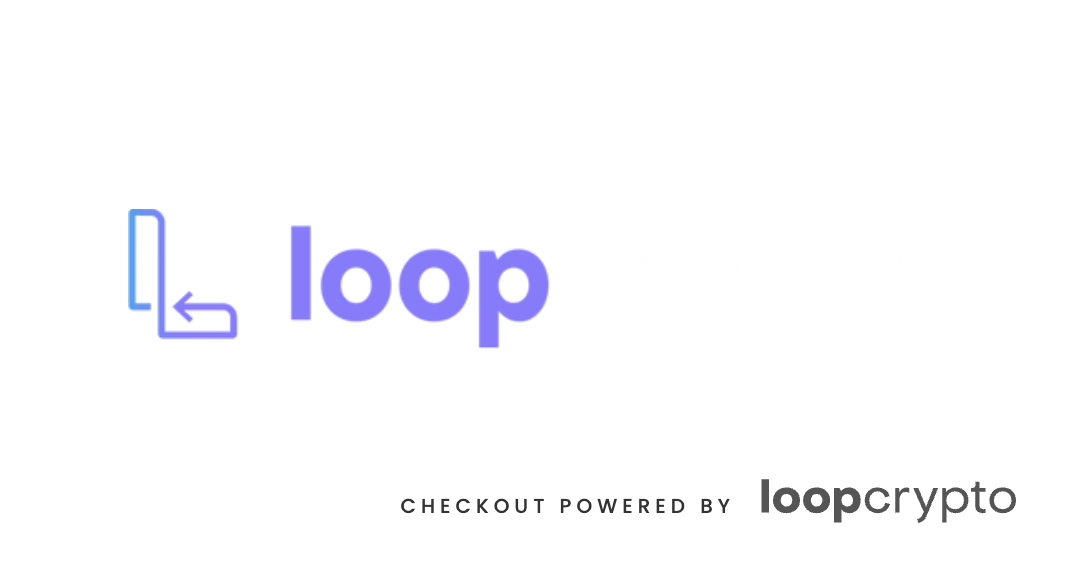
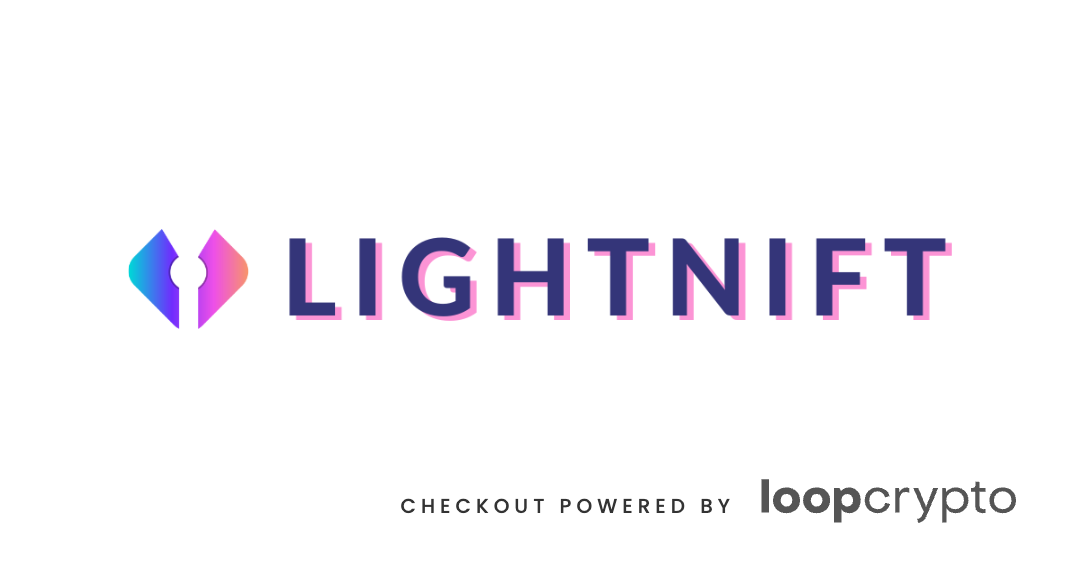
Base64 test

Changed region(s): [[0.0917, 0.3604, 0.8861, 0.6307]]

diff --git a/index.html b/index.html
@@ -7,7 +7,7 @@
         <meta property="fc:frame" content="vNext" />
         <meta
             property="fc:frame:image"
-            content="https://juneate.github.io/frametest/img/spiderman-tokens.png"
[1 lines of base64/hex data omitted]
         />
 
         <meta

diff --git a/checkout.ts b/checkout.ts
@@ -91,7 +91,7 @@ const pageToBase64 = async (
         });
 };
 
-const buildCheckoutImage = async (
+const buildCheckoutBase64Image = async (
     logoUrl: string,
     imgSize: ImageSize = { width: 1080, height: 566 }
 ): Promise<string> => {
@@ -235,8 +235,8 @@ const checkoutLogoOnlyLayout = (encodedLogo: string, wide: boolean): string => {
 
 (async () => {
     // Build the checkout image
-    const test = await buildCheckoutImage(
-        "https://loop-entity-logos.s3.us-east-2.amazonaws.com/LoopCrypto.png",
+    const test = await buildCheckoutBase64Image(
+        "img/logo2.png",
         // "img/logo1.png",
         {
             width: 1080,
@@ -245,6 +245,8 @@ const checkoutLogoOnlyLayout = (encodedLogo: string, wide: boolean): string => {
     ).catch((error) => {
         throw new Error(`Could not build the checkout frame image\n${error}`);
     });
+
+    console.log(test);
 
     try {
         await encodedImageToFile(test, "img/checkout.png");
